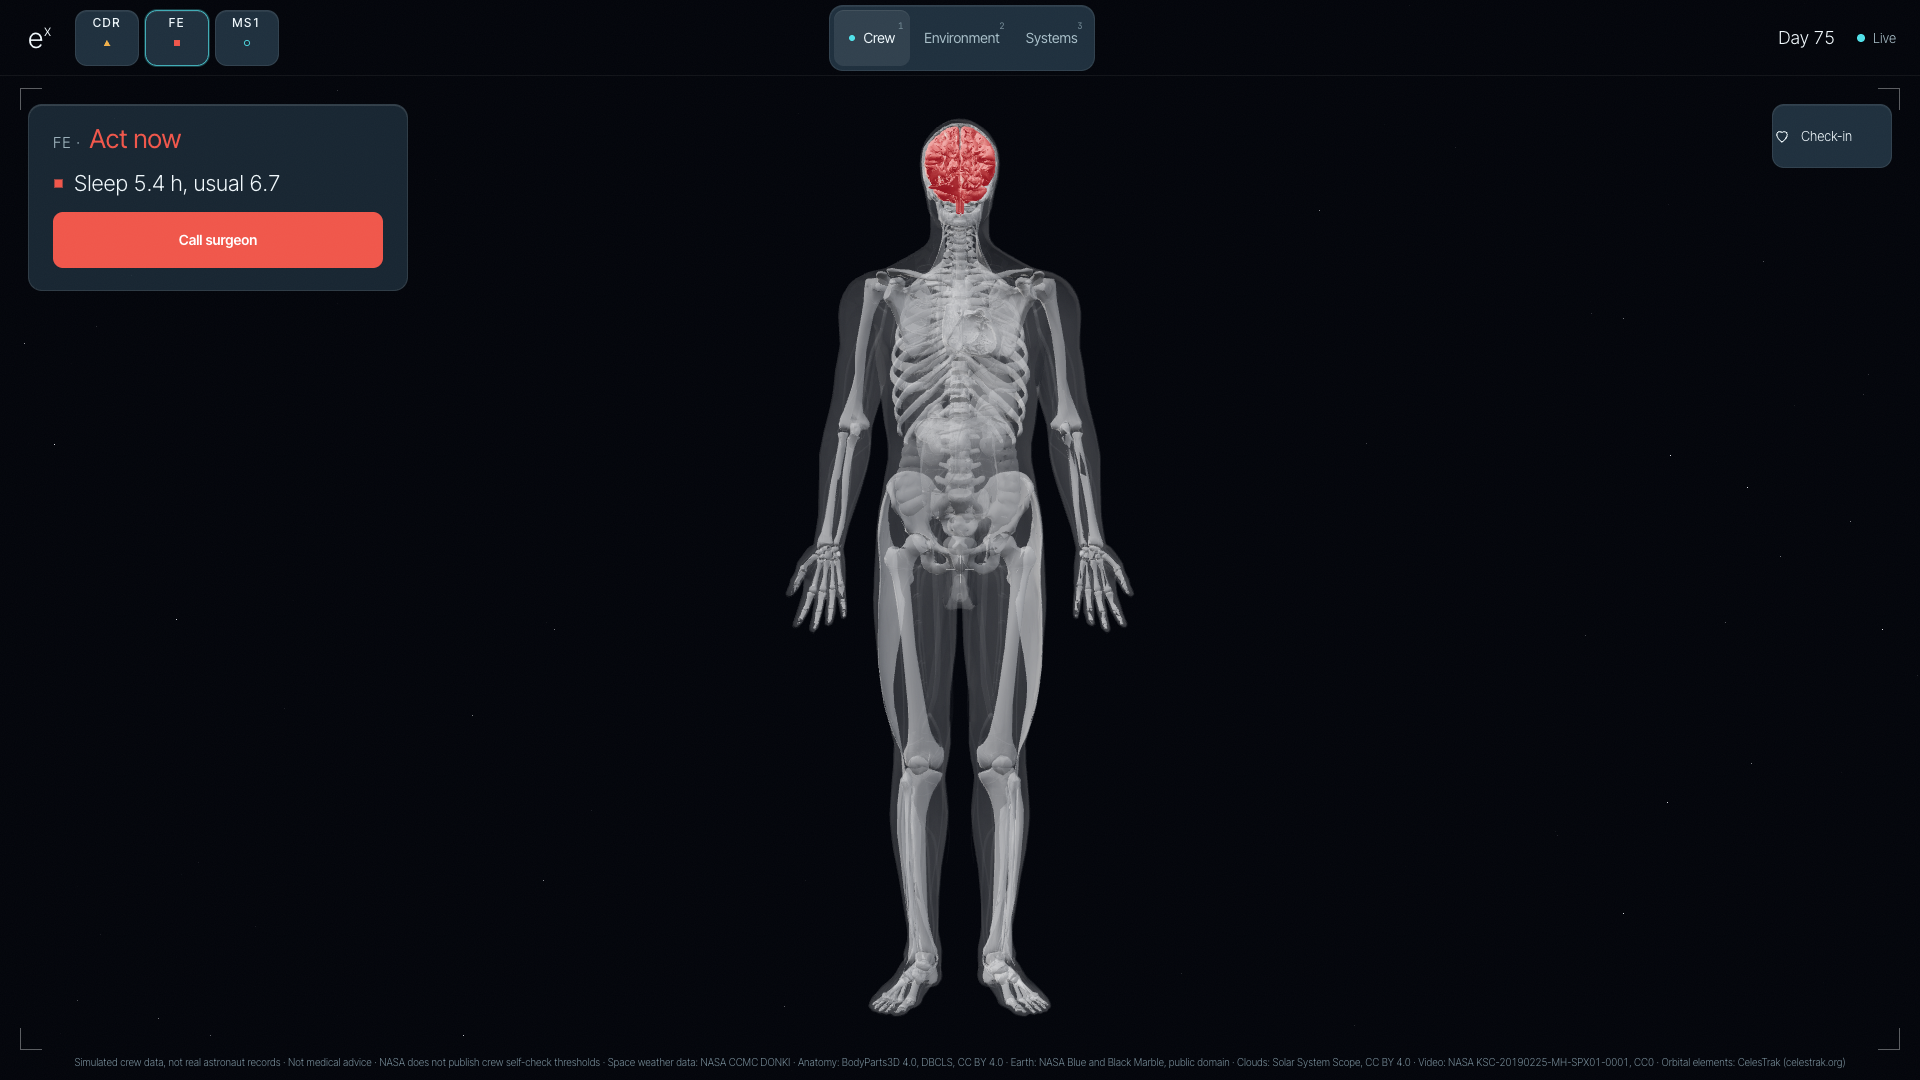
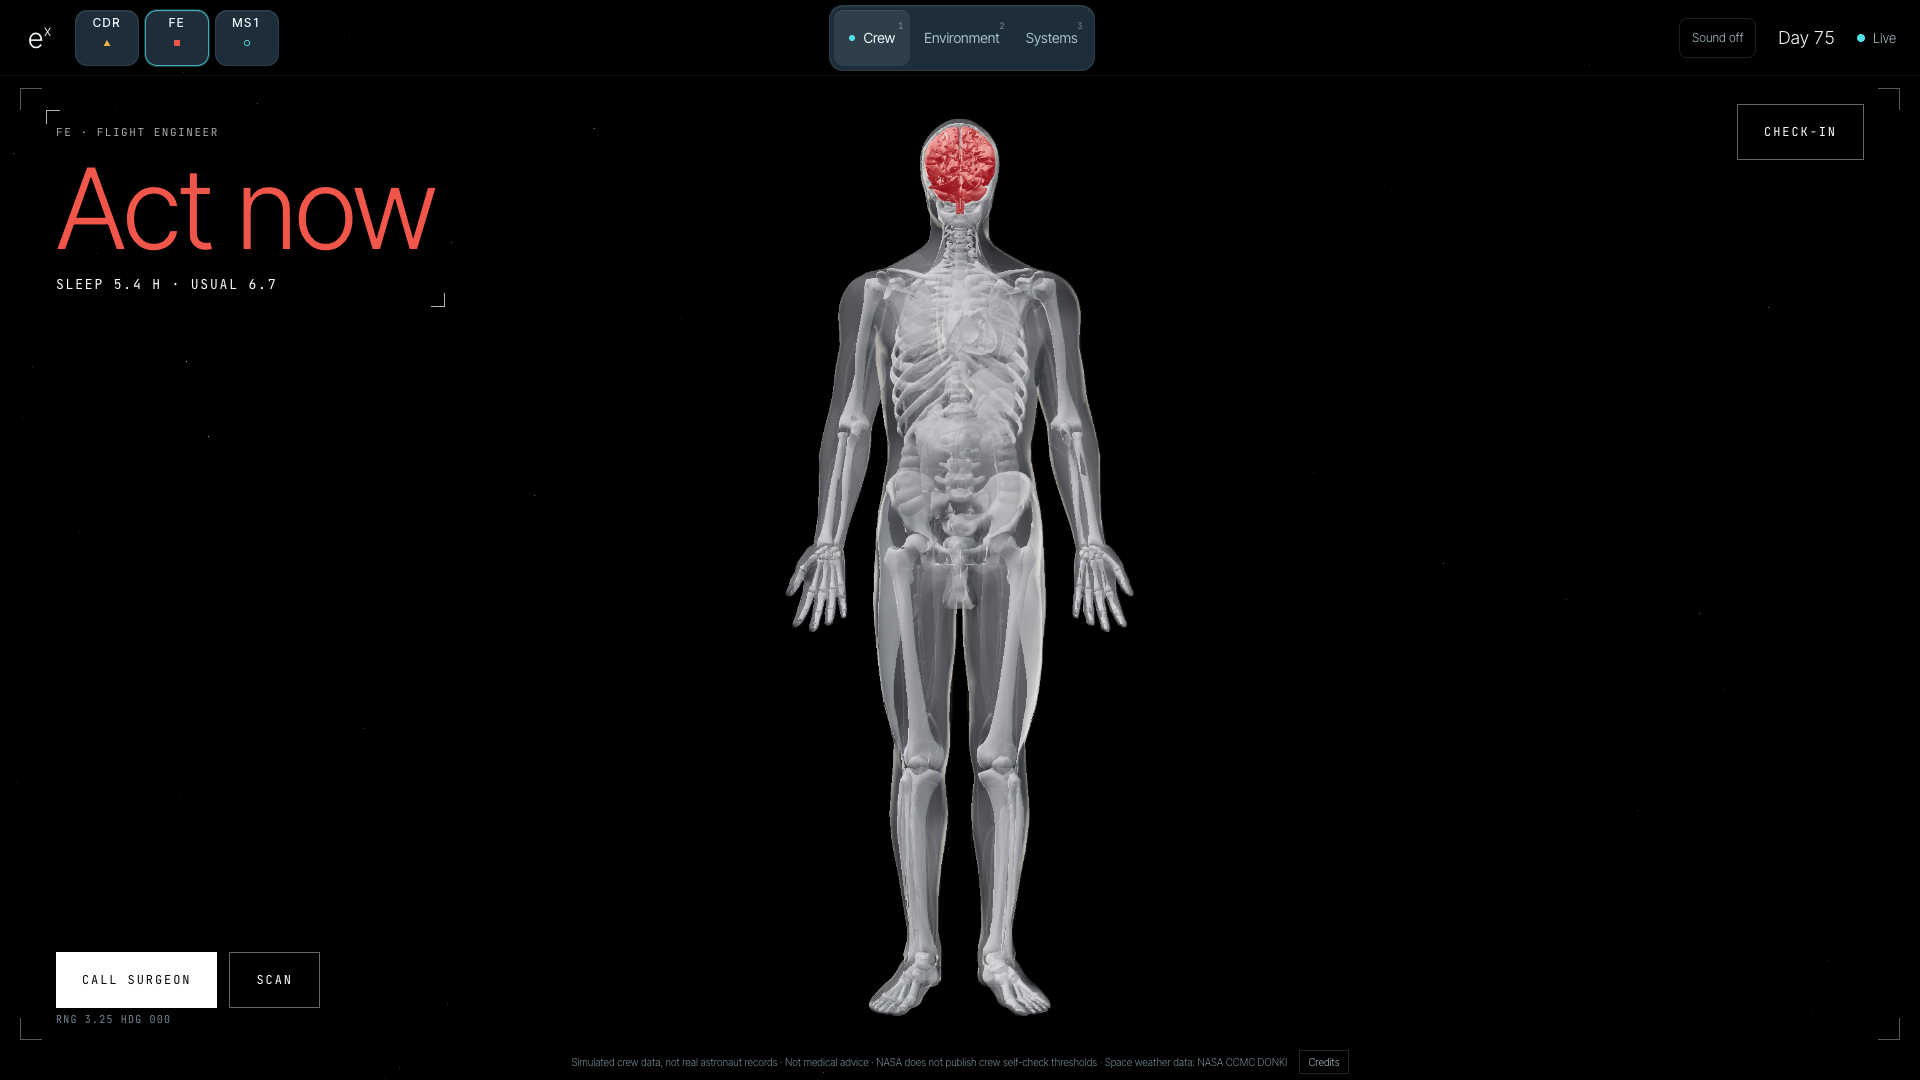
Crew: edolus-style read on the image (large status word, mono captions, white action, brackets), camera Scan with face box driving the heart pulse, idle orbit with breathing, one-line footer with Credits, blurry sky map dropped

diff --git a/web/src/console/CrewPage.tsx b/web/src/console/CrewPage.tsx
@@ -1,13 +1,15 @@
-// CREW: the body is the hero. One card: seat and status, the one flagged thing in plain words,
-// and one button (amber: Re-measure, red: Call surgeon, which then sends the handoff report).
-// Top right: Check-in. Only the flagged region glows. Drag to rotate.
-import { useEffect, useMemo, useState } from 'react';
+// CREW: the body is the hero; text sits on the image (no filled cards) with 1 px corner brackets.
+// One very large light status word, small mono captions, one solid white action (amber case:
+// Re-measure; red: Call surgeon, which then sends the handoff report) and a secondary Scan.
+// Idle after 20 s: a slow orbit with gentle breathing, only the key readout stays.
+import { useEffect, useMemo, useRef, useState } from 'react';
 import { useSearchParams } from 'react-router-dom';
 import { TARGETS, type TargetId } from '../components/body3d/targets';
 import { postMeasure } from '../data/live';
 import type { MetricKey, Status } from '../data/types';
+import { useCameraScan } from '../scan';
 import { fmt, RANK, rowOf, SHORT, STATUS_WORD, TARGET_METRICS } from './model';
-import { Confirm, Icon, Mark } from './ui';
+import { Confirm } from './ui';
 import { CheckinPanel } from './CheckinPanel';
 import { HandoffPanel } from './HandoffPanel';
 import { useConsole } from './useConsole';
@@ -15,14 +17,103 @@ import { useHud } from './hud';
 
 const ALL: MetricKey[] = ['hr', 'bp_sys', 'bp_dia', 'glucose', 'temp', 'sleep_h', 'mood', 'exercise_min', 'bone_loss_pct', 'dose_mSv_day'];
 const VITAL: Partial<Record<MetricKey, string>> = { bp_sys: 'vital.bp_sys', bp_dia: 'vital.bp_dia', hr: 'vital.hr', temp: 'vital.temp', glucose: 'vital.glucose' };
+const IDLE_MS = 20000;
+
+/** Idle after 20 s without input; any input ends it. Drives a slow orbit through the shared yaw. */
+function useIdle() {
+  const { setIdle, setYaw } = useHud();
+  const idle = useHud((s) => s.idle);
+  useEffect(() => {
+    let timer = window.setTimeout(() => setIdle(true), IDLE_MS);
+    const wake = () => {
+      setIdle(false);
+      window.clearTimeout(timer);
+      timer = window.setTimeout(() => setIdle(true), IDLE_MS);
+    };
+    const evs = ['pointermove', 'pointerdown', 'keydown', 'wheel', 'touchstart'];
+    evs.forEach((e) => addEventListener(e, wake, { passive: true }));
+    return () => {
+      window.clearTimeout(timer);
+      evs.forEach((e) => removeEventListener(e, wake));
+      setIdle(false);
+    };
+  }, [setIdle]);
+  useEffect(() => {
+    if (!idle || (typeof matchMedia !== 'undefined' && matchMedia('(prefers-reduced-motion: reduce)').matches)) return;
+    let raf = 0;
+    let last = performance.now();
+    const step = (t: number) => {
+      const h = useHud.getState();
+      h.setYaw(h.yaw + ((t - last) / 1000) * 0.12);
+      last = t;
+      raf = requestAnimationFrame(step);
+    };
+    raf = requestAnimationFrame(step);
+    return () => cancelAnimationFrame(raf);
+  }, [idle, setYaw]);
+  return idle;
+}
+
+function ScanOverlay({ onClose }: { onClose: () => void }) {
+  const scan = useCameraScan({ durationS: 25 });
+  const setHeartBpm = useHud((s) => s.setHeartBpm);
+  const started = useRef(false);
+  useEffect(() => {
+    if (!started.current) {
+      started.current = true;
+      scan.start();
+    }
+  }, [scan]);
+  useEffect(() => setHeartBpm(scan.bpm), [scan.bpm, setHeartBpm]);
+  return (
+    <div className="scan brk" role="dialog" aria-label="Scan">
+      <div className="scan-frame">
+        <video ref={scan.videoRef} className="scan-video" autoPlay muted playsInline />
+        {scan.box && scan.videoRef.current?.videoWidth ? (
+          <i
+            className="scan-box"
+            style={{
+              // the video is mirrored, so is the box
+              left: `${(1 - (scan.box.x + scan.box.w) / scan.videoRef.current.videoWidth) * 100}%`,
+              top: `${(scan.box.y / scan.videoRef.current.videoHeight) * 100}%`,
+              width: `${(scan.box.w / scan.videoRef.current.videoWidth) * 100}%`,
+              height: `${(scan.box.h / scan.videoRef.current.videoHeight) * 100}%`,
+            }}
+          />
+        ) : null}
+      </div>
+      <span className="cap">{scan.status === 'done' ? 'Scan done' : scan.hint ?? (scan.status === 'scanning' ? 'Hold still' : scan.status)}</span>
+      <span className="scan-bpm">
+        {scan.bpm != null ? Math.round(scan.bpm) : '--'}
+        <small>bpm</small>
+      </span>
+      <span className="scan-bar">
+        <i style={{ width: `${Math.round(scan.progress * 100)}%` }} />
+      </span>
+      <span className="cap">{scan.error ?? scan.label}</span>
+      <button
+        type="button"
+        className="ghost"
+        onClick={() => {
+          scan.cancel();
+          onClose();
+        }}
+      >
+        {scan.status === 'done' ? 'Close' : 'Cancel'}
+      </button>
+    </div>
+  );
+}
 
 export default function CrewPage() {
   const { cd, cv, seat } = useConsole();
   const [params, setParams] = useSearchParams();
-  const { setFocus, setTint } = useHud();
+  const { setFocus, setTint, heartBpm } = useHud();
+  const idle = useIdle();
   const [ask, setAsk] = useState(false);
   const [result, setResult] = useState<string | null>(null);
   const [handoff, setHandoff] = useState(false);
+  const [scanning, setScanning] = useState(false);
   const panel = params.get('p');
   const rawT = params.get('t');
   const target = rawT && rawT in TARGETS ? (rawT as TargetId) : null;
@@ -31,7 +122,6 @@ export default function CrewPage() {
   useEffect(() => setFocus(target), [target, setFocus]);
   useEffect(() => () => setFocus(null), [setFocus]);
   useEffect(() => {
-    // only the flagged region glows
     const tint: Partial<Record<TargetId, Status>> = {};
     for (const [t, ks] of Object.entries(TARGET_METRICS) as [TargetId, MetricKey[]][]) {
       const s = ks.map((k) => all.find((r) => r.k === k)?.status ?? 'green').reduce<Status>((w, x) => (RANK[x] > RANK[w] ? x : w), 'green');
@@ -50,16 +140,12 @@ export default function CrewPage() {
   const organRow = target ? all.find((r) => r.k === TARGET_METRICS[target][0]) : null;
   const one = organRow ?? flagged[0] ?? null;
   const red = one?.status === 'red';
-  const plain = one ? `${SHORT[one.k]} ${fmt(one.value, one.digits)} ${one.unit}${one.mean != null ? `, usual ${fmt(one.mean, one.digits)}` : ''}` : 'All readings in range';
+  const caption = one ? `${SHORT[one.k]} ${fmt(one.value, one.digits)} ${one.unit}${one.mean != null ? ` · usual ${fmt(one.mean, one.digits)}` : ''}` : 'All readings in range';
 
   const act = async () => {
     setAsk(false);
     if (!one) return;
-    if (red) {
-      setHandoff(true);
-      return;
-    }
-    // Re-measure: a reading from the simulated Bio-Monitor, checked by the server when it runs
+    if (red) return setHandoff(true);
     const metric = VITAL[one.k];
     if (!metric || one.value == null) return setResult('Logged');
     const reply = await postMeasure(cv.m.id, metric, `${cd.mission.today}T${new Date().toISOString().slice(11, 19)}Z`, one.value);
@@ -67,27 +153,35 @@ export default function CrewPage() {
   };
 
   return (
-    <>
-      <div className="one-card" data-status={cv.overall}>
-        <span className="one-seat">
-          {seat[cv.m.id]} · <b>{STATUS_WORD[cv.overall]}</b>
+    <div className="crew" data-idle={idle || undefined} data-status={cv.overall}>
+      <section className="crew-read brk" aria-live="polite">
+        <span className="cap">
+          {seat[cv.m.id]} · {cv.m.role}
         </span>
-        <span className="one-line">
-          {one && one.status !== 'green' && <Mark s={one.status} size={11} />}
-          {plain}
-        </span>
-        {target && (
-          <button type="button" className="cx-back" onClick={() => setParams({}, { replace: true })}>
-            <Icon name="back" size={16} />
-            Whole body
-          </button>
-        )}
+        <b className="crew-word">{STATUS_WORD[cv.overall]}</b>
+        <span className="cap crew-line">{caption}</span>
+        {heartBpm != null && <span className="cap">Heart {Math.round(heartBpm)} bpm · camera estimate</span>}
+      </section>
+
+      <div className="crew-actions">
         {one && one.status !== 'green' && (
-          <button type="button" className={`btn ${red ? 'btn-red' : 'btn-amber'}`} onClick={() => setAsk(true)}>
+          <button type="button" className="solid" onClick={() => setAsk(true)}>
             {result ?? (red ? 'Call surgeon' : 'Re-measure')}
           </button>
         )}
+        <button type="button" className="ghost" onClick={() => setScanning(true)}>
+          Scan
+        </button>
+        {target && (
+          <button type="button" className="ghost" onClick={() => setParams({}, { replace: true })}>
+            Whole body
+          </button>
+        )}
       </div>
+
+      <button type="button" className="ghost crew-checkin" aria-pressed={panel === 'checkin'} onClick={() => setParams(panel === 'checkin' ? {} : { p: 'checkin' }, { replace: true })}>
+        Check-in
+      </button>
 
       {/* keyboard: Tab reaches each body region, Enter focuses it, Esc returns */}
       <nav className="hot-keys" aria-label="Body regions">
@@ -98,12 +192,9 @@ export default function CrewPage() {
         ))}
       </nav>
 
-      <button type="button" className="sq one-checkin" aria-pressed={panel === 'checkin'} onClick={() => setParams(panel === 'checkin' ? {} : { p: 'checkin' }, { replace: true })}>
-        <Icon name="mind" size={18} />
-        <span>Check-in</span>
-      </button>
       {panel === 'checkin' && <CheckinPanel className="crew-right" />}
       {handoff && <HandoffPanel className="crew-right" />}
+      {scanning && <ScanOverlay onClose={() => setScanning(false)} />}
 
       {one && (
         <Confirm
@@ -119,7 +210,6 @@ export default function CrewPage() {
           onCancel={() => setAsk(false)}
         />
       )}
-    </>
+    </div>
   );
 }
-

diff --git a/web/src/console/console.css b/web/src/console/console.css
@@ -450,3 +450,43 @@ button.wg:hover { border-color: rgb(255 255 255 / 0.22); }
 .hot-keys { position: absolute; z-index: 15; left: 50%; translate: -50% 0; bottom: 70px; display: flex; gap: 6px; opacity: 0; pointer-events: none; }
 .hot-keys:focus-within { opacity: 1; pointer-events: auto; }
 .hot-keys button { height: 56px; padding: 0 16px; border-radius: 10px; border: 1px solid rgb(255 255 255 / 0.14); background: rgb(var(--glass) / 0.7); font-size: 13px; }
+
+/* Crew, edolus style: text on the image, 1 px corner brackets, one solid white action */
+.brk { position: relative; }
+.brk::before, .brk::after { content: ''; position: absolute; width: 14px; height: 14px; border: 0 solid rgb(255 255 255 / 0.7); pointer-events: none; }
+.brk::before { left: -10px; top: -10px; border-width: 1px 0 0 1px; }
+.brk::after { right: -10px; bottom: -10px; border-width: 0 1px 1px 0; }
+.cap { font-family: var(--font-mono); font-size: 11px; letter-spacing: 0.14em; text-transform: uppercase; color: rgb(255 255 255 / 0.66); }
+.crew { position: absolute; inset: 0; }
+.crew-read { position: absolute; z-index: 10; left: 56px; top: 120px; display: flex; flex-direction: column; gap: 14px; max-width: 520px; transition: opacity 600ms ease-out; }
+.crew-word { font-size: 112px; font-weight: 200; line-height: 0.9; letter-spacing: -0.03em; color: #fff; }
+.crew[data-status='amber'] .crew-word { color: rgb(var(--warn)); }
+.crew[data-status='red'] .crew-word { color: rgb(var(--crit)); }
+.crew-line { font-size: 13px; color: #fff; }
+.crew-actions { position: absolute; z-index: 10; left: 56px; bottom: 72px; display: flex; gap: 12px; transition: opacity 400ms ease-out; }
+.solid, .ghost { position: relative; height: 56px; padding: 0 26px; border-radius: 0; font-family: var(--font-mono); font-size: 12px; letter-spacing: 0.16em; text-transform: uppercase; transition: background 150ms, color 150ms; }
+.solid { background: #fff; color: #050608; }
+.ghost { color: #fff; border: 1px solid rgb(255 255 255 / 0.4); }
+.ghost:hover { border-color: #fff; }
+.solid::before, .solid::after, .ghost::before, .ghost::after { content: ''; position: absolute; width: 10px; height: 10px; border: 0 solid #fff; opacity: 0; transition: opacity 150ms; }
+.solid::before, .ghost::before { left: -7px; top: -7px; border-width: 1px 0 0 1px; }
+.solid::after, .ghost::after { right: -7px; bottom: -7px; border-width: 0 1px 1px 0; }
+.solid:hover::before, .solid:hover::after, .solid:focus-visible::before, .solid:focus-visible::after, .ghost:hover::before, .ghost:hover::after, .ghost:focus-visible::before, .ghost:focus-visible::after { opacity: 1; }
+.ghost[aria-pressed='true'] { background: rgb(255 255 255 / 0.12); }
+.crew-checkin { position: absolute; z-index: 12; right: 56px; top: 104px; }
+.crew[data-idle] .crew-actions, .crew[data-idle] .crew-checkin { opacity: 0; pointer-events: none; }
+.crew[data-idle] .crew-read { opacity: 0.95; }
+.scan { position: absolute; z-index: 60; right: 56px; top: 180px; width: 360px; display: flex; flex-direction: column; gap: 12px; padding: 16px; background: rgb(5 6 8 / 0.6); backdrop-filter: blur(10px); -webkit-backdrop-filter: blur(10px); }
+.scan-video { width: 100%; aspect-ratio: 4 / 3; object-fit: cover; transform: scaleX(-1); background: #000; }
+.scan-bpm { font-size: 64px; font-weight: 200; line-height: 1; font-variant-numeric: tabular-nums; }
+.scan-bpm small { font-family: var(--font-mono); font-size: 12px; margin-left: 8px; color: rgb(255 255 255 / 0.6); }
+.scan-bar { display: block; height: 1px; background: rgb(255 255 255 / 0.2); }
+.scan-bar i { display: block; height: 1px; background: #fff; }
+.scan-frame { position: relative; }
+.scan-box { position: absolute; border: 1px solid #fff; pointer-events: none; }
+.cx-credits { display: flex; justify-content: center; align-items: center; gap: 12px; white-space: nowrap; overflow: hidden; pointer-events: auto; bottom: 6px; }
+.cx-credits > span:first-child { overflow: hidden; text-overflow: ellipsis; }
+.cx-credits-btn { height: 24px; padding: 0 8px; font-size: 10px; color: rgb(var(--dim)); border: 1px solid rgb(255 255 255 / 0.15); flex: none; }
+.cx-credits-pop { position: absolute; bottom: 30px; left: 50%; translate: -50% 0; width: min(900px, 90vw); white-space: normal; padding: 10px 14px; background: rgb(5 6 8 / 0.85); border: 1px solid rgb(255 255 255 / 0.12); }
+.hud-frame { inset: 88px 20px 40px; }
+.cx-telemetry { left: 56px; bottom: 48px; }

diff --git a/web/src/console/Shell.tsx b/web/src/console/Shell.tsx
@@ -24,6 +24,7 @@ export function Shell() {
   const [server, setServer] = useState<boolean | null>(null);
   const nav = useNavigate();
   const [sound, setSound] = useState(false);
+  const [credits, setCredits] = useState(false);
   // a soft tick on every tap when sound is on
   useEffect(() => {
     const f = (e: PointerEvent) => (e.target as HTMLElement)?.closest?.('button, a') && tick();
@@ -143,8 +144,15 @@ export function Shell() {
 
 
       <footer className="cx-credits">
-        {[...DISCLAIMERS, data ? `Space weather data: ${data.storm.meta.data_credit}` : ''].filter(Boolean).join('  ·  ')}
-        {'  ·  '}Anatomy: BodyParts3D 4.0, DBCLS, CC BY 4.0 · Earth: NASA Blue and Black Marble, public domain · Clouds: Solar System Scope, CC BY 4.0 · Video: NASA KSC-20190225-MH-SPX01-0001, CC0 · Orbital elements: CelesTrak (celestrak.org) · Stars: NASA SVS Deep Star Maps, Gaia ESA/DPAC · Moon: NASA SVS CGI Moon Kit (LRO)
+        <span>{[...DISCLAIMERS, data ? `Space weather data: ${data.storm.meta.data_credit}` : ''].filter(Boolean).join('  ·  ')}</span>
+        <button type="button" className="cx-credits-btn" aria-expanded={credits} onClick={() => setCredits((c) => !c)}>
+          Credits
+        </button>
+        {credits && (
+          <span className="cx-credits-pop">
+            Anatomy: BodyParts3D 4.0, DBCLS, CC BY 4.0 · Earth: NASA Blue and Black Marble, public domain · Clouds: Solar System Scope, CC BY 4.0 · Video: NASA KSC-20190225-MH-SPX01-0001, CC0 · Orbital elements: CelesTrak (celestrak.org) · Stars: NASA SVS Deep Star Maps, Gaia ESA/DPAC
+          </span>
+        )}
       </footer>
       <div className="cx-grain" aria-hidden />
       <p id="cx-tele" className="cx-telemetry" aria-hidden />

diff --git a/web/src/console/Porcelain.tsx b/web/src/console/Porcelain.tsx
@@ -110,7 +110,21 @@ export function Porcelain({
 
   const meshes = useRef<Record<string, THREE.Mesh | null>>({});
   const reduced = useRef(typeof matchMedia !== 'undefined' && matchMedia('(prefers-reduced-motion: reduce)').matches);
-  useFrame((_, dt) => {
+  const idle = useHud((s) => s.idle);
+  const bpm = useHud((s) => s.heartBpm);
+  useFrame((state, dt) => {
+    const time = state.clock.elapsedTime;
+    // gentle breathing in idle mode; the heart beats at the camera-scan rate when there is one
+    if (group.current) group.current.scale.set(1, 1, idle && !reduced.current ? 1 + 0.006 * Math.sin(time * 1.3) : 1);
+    const heart = meshes.current['heart'];
+    if (heart) {
+      const ph = bpm ? (time * bpm) / 60 % 1 : 0;
+      const s = bpm && !reduced.current ? 1 + 0.05 * (ph < 0.15 ? Math.sin((ph / 0.15) * Math.PI * 0.5) : Math.exp(-(ph - 0.15) * 7)) : 1;
+      if (!heart.geometry.boundingBox) heart.geometry.computeBoundingBox();
+      const c = heart.geometry.boundingBox!.getCenter(new THREE.Vector3());
+      heart.scale.setScalar(s);
+      heart.position.copy(c).multiplyScalar(1 - s); // beat about the heart's own centre
+    }
     const k = reduced.current ? 1 : 1 - Math.exp(-Math.min(dt, 0.05) / 0.06); // about 180 ms
     for (const [n, m] of Object.entries(mats)) {
       const goal = goals[n];

diff --git a/web/src/console/Space.tsx b/web/src/console/Space.tsx
@@ -3,21 +3,14 @@
 // public domain), lit by the one sun with no ambient fill and a tiny earthshine on the dark side.
 // Both are small textures loaded after the first view.
 import { useMemo } from 'react';
-import { useThree } from '@react-three/fiber';
 import { useTexture } from '@react-three/drei';
 import * as THREE from 'three';
 
 const base = `${import.meta.env.BASE_URL}refs/space/`;
 
+/** Dropped: a 4K sky map is blurry behind the body at this field of view. The fine point stars
+ * in the scene carry the sky; this stays as a no-op so the scene keeps building. */
 export function StarSky() {
-  const tex = useTexture(`${base}starmap-4k.jpg`);
-  const { scene } = useThree();
-  useMemo(() => {
-    tex.mapping = THREE.EquirectangularReflectionMapping;
-    tex.colorSpace = THREE.SRGBColorSpace;
-    scene.background = tex;
-    scene.backgroundIntensity = 0.12; // a faint Milky Way haze; the point stars on top carry the detail
-  }, [tex, scene]);
   return null;
 }
 

diff --git a/web/src/console/hud.ts b/web/src/console/hud.ts
@@ -34,6 +34,12 @@ interface Hud {
   /** Compare: per crew member, organ -> status for the metric being compared. */
   compare: Partial<Record<TargetId, Status>>[];
   setCompare: (c: Partial<Record<TargetId, Status>>[]) => void;
+  /** Idle mode (20 s without input): slow orbit and gentle breathing. */
+  idle: boolean;
+  setIdle: (b: boolean) => void;
+  /** Live heart rate from the camera scan; drives the heart pulse on the body. */
+  heartBpm: number | null;
+  setHeartBpm: (b: number | null) => void;
   /** Body model ready. */
   bodyReady: boolean;
   setYaw: (y: number) => void;
@@ -47,6 +53,10 @@ export const useHud = create<Hud>((set) => ({
   focus: null,
   tint: {},
   bodyReady: false,
+  idle: false,
+  setIdle: (idle) => set((s) => (s.idle === idle ? s : { idle })),
+  heartBpm: null,
+  setHeartBpm: (heartBpm) => set({ heartBpm }),
   asOf: null,
   setAsOf: (asOf) => set({ asOf }),
   compare: [],
